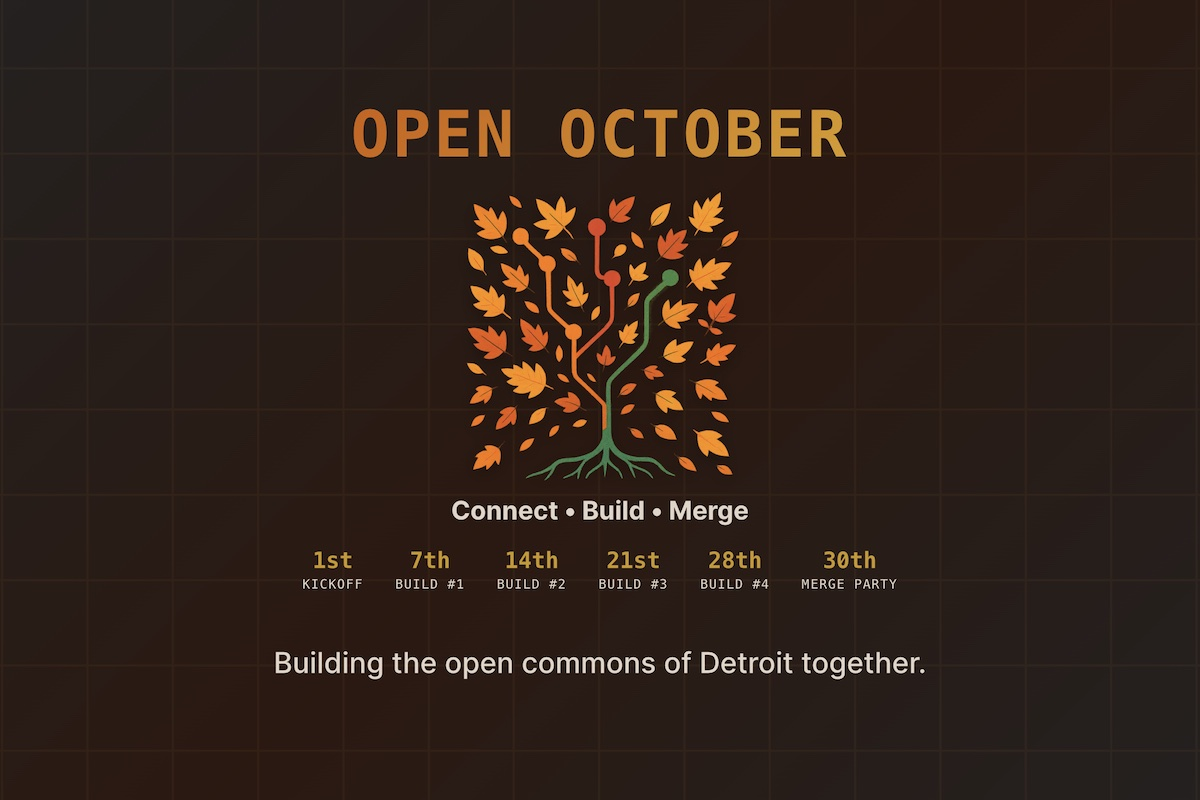
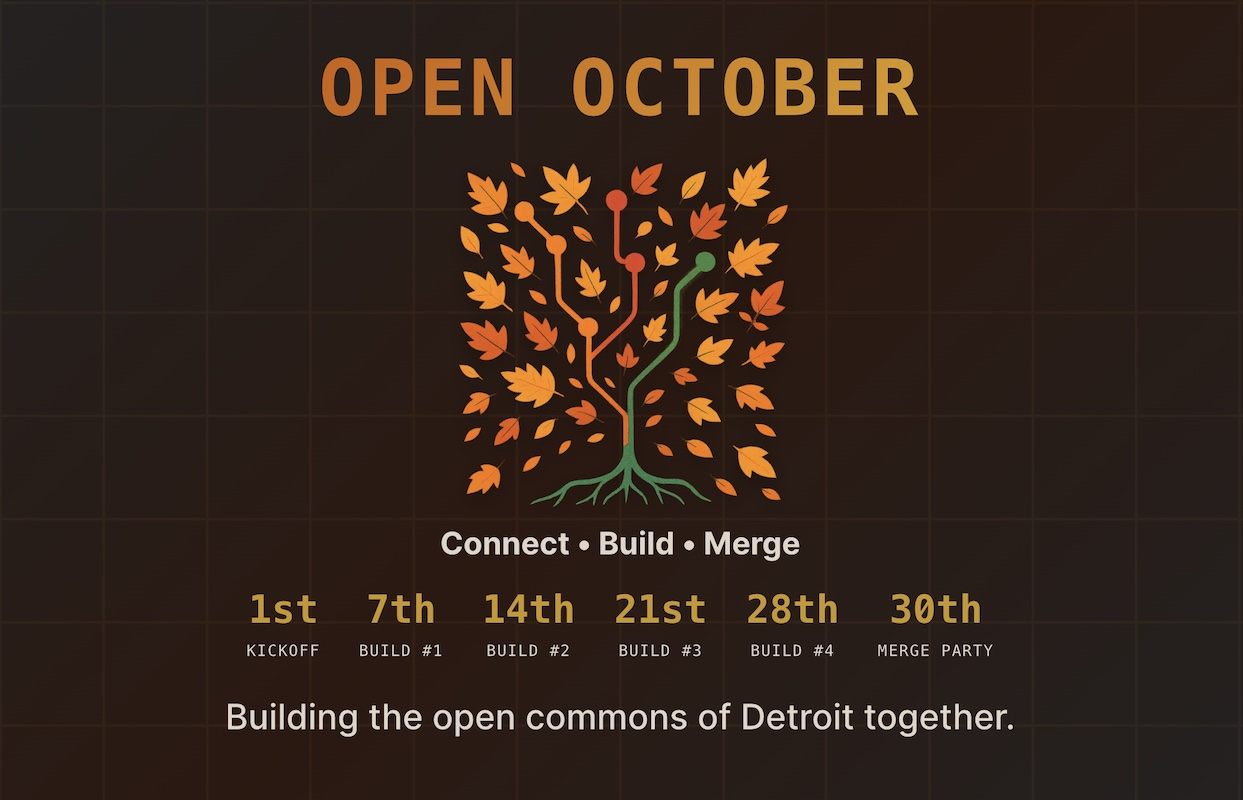
Update open-october page and featured image

Changed region(s): [[0.185, 0.0625, 0.8017, 0.8438], [0.185, 0.875, 0.8325, 0.9375]]

diff --git a/src/pages/open-october.tsx b/src/pages/open-october.tsx
@@ -398,7 +398,7 @@ const HeroDatesContainer = styled.div`
   display: flex;
   justify-content: center;
   gap: 2rem;
-  margin: 1rem 0 3rem 0;
+  margin: 1rem 0 1.5rem 0;
   flex-wrap: wrap;
 
   @media (max-width: 768px) {
@@ -420,10 +420,10 @@ const HeroDateItem = styled.div<{ theme: ThemeType }>`
 `;
 
 const HeroDateNumber = styled.div`
-  font-size: 1.4rem;
+  font-size: 2rem;
   font-weight: bold;
   color: ${openOctoberColors.goldenrod};
-  margin-bottom: 0.2rem;
+  margin-bottom: 0.5rem;
 
   @media (max-width: 768px) {
     font-size: 1.2rem;
